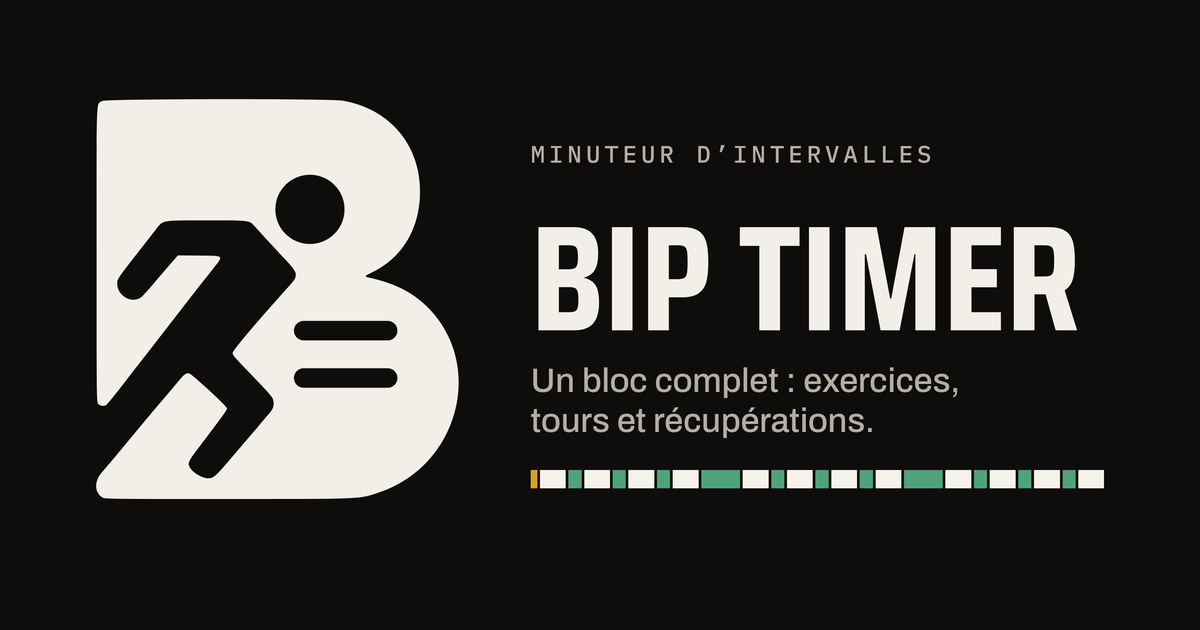
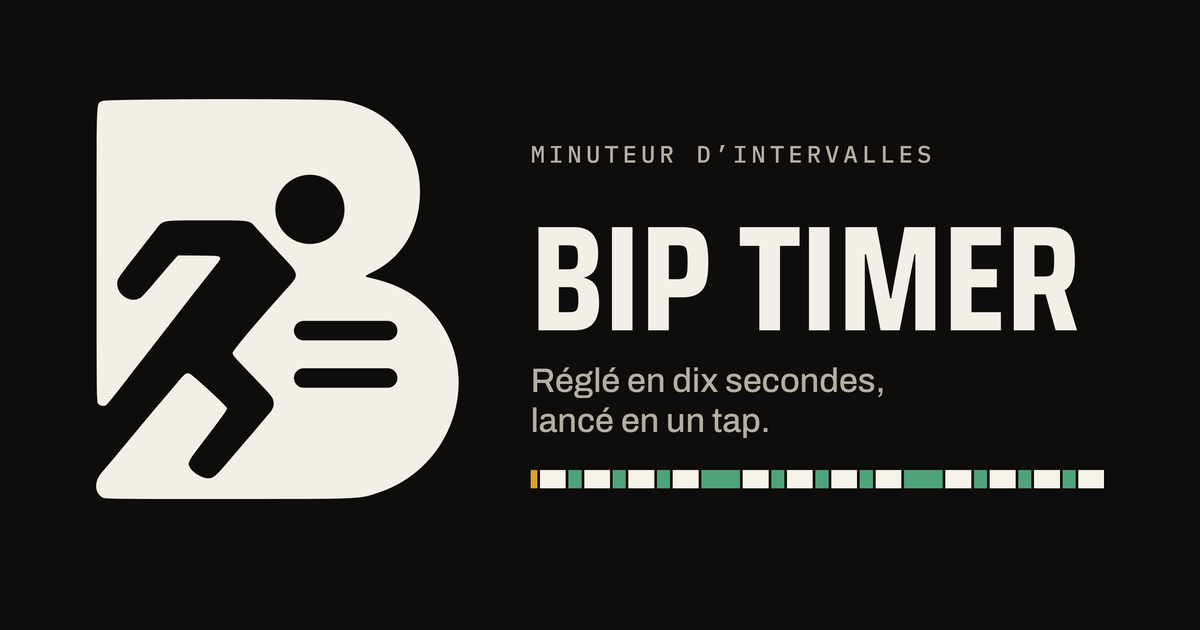
feat: use the set-in-ten-seconds tagline in link previews

Changed region(s): [[0.4317, 0.573, 0.8017, 0.6937]]

diff --git a/index.html b/index.html
@@ -4,7 +4,7 @@
     <meta charset="utf-8" />
     <meta name="viewport" content="width=device-width, initial-scale=1, viewport-fit=cover" />
     <meta name="theme-color" content="#0e0d0b" />
-    <meta name="description" content="Minuteur d’intervalles pour un bloc complet : exercices, tours et récupérations. Sans installation, hors ligne, l’écran reste allumé." />
+    <meta name="description" content="Minuteur d’intervalles pour un bloc complet : exercices, tours et récupérations. Réglé en dix secondes, lancé en un tap." />
     <meta name="apple-mobile-web-app-capable" content="yes" />
     <meta name="mobile-web-app-capable" content="yes" />
     <meta name="apple-mobile-web-app-status-bar-style" content="black-translucent" />
@@ -13,7 +13,7 @@
     <meta property="og:type" content="website" />
     <meta property="og:site_name" content="BIP Timer" />
     <meta property="og:title" content="BIP Timer" />
-    <meta property="og:description" content="Minuteur d’intervalles pour un bloc complet : exercices, tours et récupérations. Sans installation, hors ligne, l’écran reste allumé." />
+    <meta property="og:description" content="Minuteur d’intervalles pour un bloc complet : exercices, tours et récupérations. Réglé en dix secondes, lancé en un tap." />
     <meta property="og:url" content="https://loicsacre.github.io/bip-timer/" />
     <meta property="og:image" content="https://loicsacre.github.io/bip-timer/og-image.png" />
     <meta property="og:image:width" content="1200" />
@@ -22,7 +22,7 @@
     <meta property="og:locale" content="fr_FR" />
     <meta name="twitter:card" content="summary_large_image" />
     <meta name="twitter:title" content="BIP Timer" />
-    <meta name="twitter:description" content="Minuteur d’intervalles pour un bloc complet : exercices, tours et récupérations. Sans installation, hors ligne, l’écran reste allumé." />
+    <meta name="twitter:description" content="Minuteur d’intervalles pour un bloc complet : exercices, tours et récupérations. Réglé en dix secondes, lancé en un tap." />
     <meta name="twitter:image" content="https://loicsacre.github.io/bip-timer/og-image.png" />
     <meta name="twitter:image:alt" content="Le logo BIP Timer et l’aperçu coloré d’une séance" />
     <link rel="manifest" href="manifest.webmanifest" />

diff --git a/sw.js b/sw.js
@@ -1,7 +1,7 @@
 // Serves the app from the cache so it opens offline, and refreshes the cache in the background:
 // a new version shows on the launch after the one that fetched it. Bump VERSION when a file is
 // added or removed.
-const VERSION = 'bip-timer-v5';
+const VERSION = 'bip-timer-v6';
 
 const FILES = [
   './',
